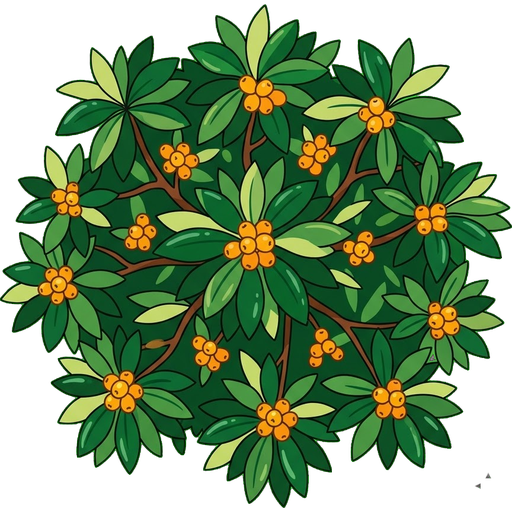
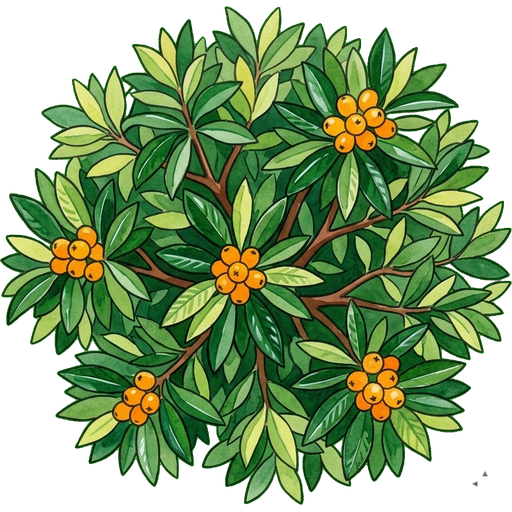
Add sticker: Loquat (tree-fruit_loquat_XL_CA-US-FR-GB-AU)

diff --git a/app/src/hooks/usePlantCatalog.js b/app/src/hooks/usePlantCatalog.js
@@ -256,6 +256,9 @@ export const PLANT_CATALOG = [
   // ── New additions
   { key:'tree-fruit_medlar_XL_CA-US-FR-GB-AU', label:'Medlar', family:'Fruit Tree', src:'/stickers/tree-fruit_medlar_XL_CA-US-FR-GB-AU.png', size:'XL' },
 
+  // ── New additions
+  { key:'tree-fruit_loquat_XL_CA-US-FR-GB-AU', label:'Loquat', family:'Fruit Tree', src:'/stickers/tree-fruit_loquat_XL_CA-US-FR-GB-AU.png', size:'XL' },
+
   // ── Reference entry (kept for catalog structure reference only) ───────────────
   // { key:'tree-svg-ref', label:'Apple Tree (SVG ref)', family:'Fruit Tree', src:'/stickers/tree.svg', size:'L' },
   { key:'plant-fern_fern_L_CA-US-FR-GB-AU', label:'Fern', family:'Fern / Groundcover', src:'/stickers/plant-fern_fern_L_CA-US-FR-GB-AU.png', size:'L' },
